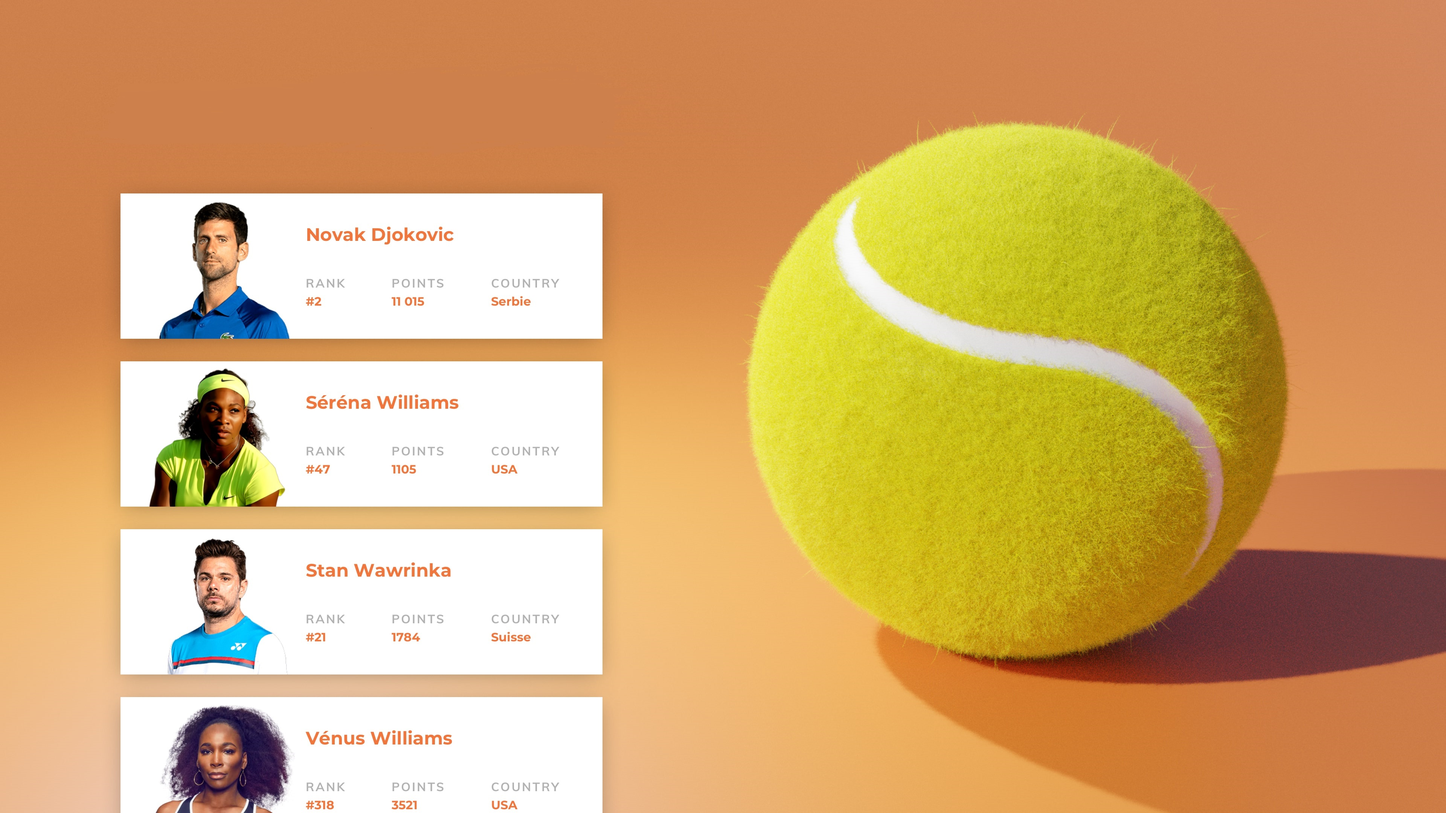
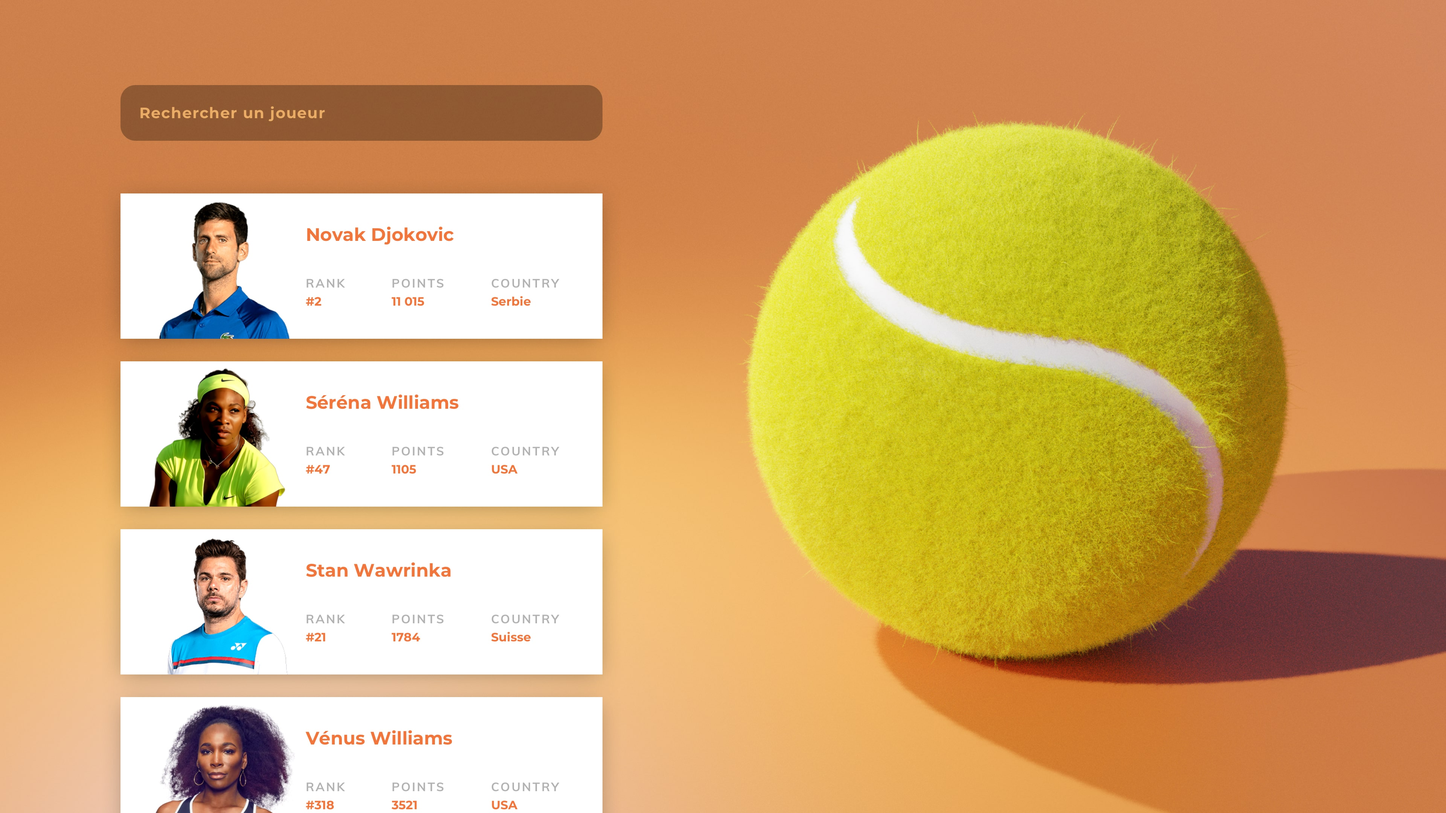
adding search bar

Changed region(s): [[0.0625, 0.0931, 0.4375, 0.1861]]

diff --git a/src/app/components/player-detail/player-detail.component.html b/src/app/components/player-detail/player-detail.component.html
@@ -71,15 +71,16 @@
             <mat-list-item class="detail-item offset-xl-2 col-xl-3
                                               offset-lg-4 col-lg-2
                                               offset-md-1 col-md-3
-                                              col-4">RANK</mat-list-item>
+                                              col-4">RANK
+            </mat-list-item>
             <mat-list-item class="detail-item col-lg-2 col-md-3 col-4">POINTS</mat-list-item>
             <mat-list-item class="detail-item col-lg-2 col-md-3 col-4">COUNTRY</mat-list-item>
           </div>
           <div class="row">
-            <mat-list-item class="detail-value  offset-xl-2 col-xl-3
-                                                offset-lg-4 col-lg-2
-                                              offset-md-1 col-md-3
-                                              col-4">{{player.data.rank}}</mat-list-item>
+            <mat-list-item class="detail-value offset-xl-2 col-xl-3
+                                               offset-lg-4 col-lg-2
+                                               offset-md-1 col-md-3
+                                               col-4">{{player.data.rank}}</mat-list-item>
             <mat-list-item class="detail-value col-lg-2 col-md-3 col-4">{{player.data.points}}</mat-list-item>
             <mat-list-item class="detail-value col-lg-2 col-md-3 col-4">{{player.country.name}}</mat-list-item>
           </div>
@@ -87,7 +88,8 @@
             <mat-list-item class="detail-item offset-xl-2 col-xl-3
                                               offset-lg-4 col-lg-2
                                               offset-md-1 col-md-5
-                                              col-6">BIRTHDAY</mat-list-item>
+                                              col-6">BIRTHDAY
+            </mat-list-item>
             <mat-list-item class="detail-item col-lg-2 col-md-3 offset-md-1 col-6">AGE</mat-list-item>
           </div>
           <div class="row">
@@ -101,7 +103,8 @@
             <mat-list-item class="detail-item offset-xl-2 col-xl-3
                                               offset-lg-4 col-lg2
                                               offset-md-1 col-md-3
-                                              col-4">WEIGHT</mat-list-item>
+                                              col-4">WEIGHT
+            </mat-list-item>
             <mat-list-item class="detail-item col-lg-2 col-md-3 col-4">HEIGHT</mat-list-item>
             <mat-list-item class="detail-item col-lg-2 col-md-3 col-4">BMI</mat-list-item>
           </div>
@@ -109,9 +112,10 @@
             <mat-list-item class="detail-value offset-xl-2 col-xl-3
                                                 offset-lg-4 col-lg-2
                                               offset-md-1 col-md-3
-                                              col-4">{{player.data.weight}}</mat-list-item>
-            <mat-list-item class="detail-value col-md-3 col-4">{{player.data.height}}</mat-list-item>
-            <mat-list-item class="detail-value col-md-3 col-4">{{player.data.bmi}}</mat-list-item>
+                                              col-4">{{player.data.weight / 1000}} kg
+            </mat-list-item>
+            <mat-list-item class="detail-value col-lg-2 col-md-3 col-4">{{player.data.height}}</mat-list-item>
+            <mat-list-item class="detail-value col-lg-2 col-md-3 col-4">{{player.data.bmi}}</mat-list-item>
           </div>
         </div>
 

diff --git a/src/app/components/search-player/search-player.component.ts b/src/app/components/search-player/search-player.component.ts
@@ -1,0 +1,51 @@
+import {Component, OnInit} from '@angular/core';
+import {Player} from "../../models/Player";
+import {PlayerService} from "../../service/player.service";
+import {Router} from "@angular/router";
+import {Observable} from "rxjs";
+import {FormBuilder, FormGroup} from "@angular/forms";
+
+@Component({
+  selector: 'app-search-player',
+  templateUrl: './search-player.component.html',
+  styleUrls: ['./search-player.component.scss']
+})
+
+export class SearchPlayerComponent implements OnInit {
+
+  players$!: Observable<Player[]>;
+  searchForm!: FormGroup;
+  inputName$!: Observable<string>;
+
+  constructor(private playerService: PlayerService,
+              private formBuilder: FormBuilder,
+              private router: Router) {
+  }
+
+  ngOnInit() {
+    this.players$ = this.playerService.getAllPLayers();
+
+    this.searchForm = this.formBuilder.group({
+      input: [null]
+    })
+    this.inputName$ = this.searchForm.valueChanges;
+
+    this.searchForm.valueChanges.subscribe((value) => {
+        this.onInputValueChange(value);
+      }
+    );
+  }
+
+  private onInputValueChange(value: any) {
+    const split: string [] = value.input.split(' ');
+    const firstname = split[0]
+    const lastname: string = split[1];
+    this.players$.subscribe(
+      (players) => {
+        const player = players.filter(player => player.lastname === lastname && player.firstname == firstname)[0];
+        const id = player.id;
+        this.router.navigateByUrl(`playerdetails/${id}`).then();
+      }
+    );
+  }
+}

diff --git a/src/app/app.module.ts b/src/app/app.module.ts
@@ -13,6 +13,11 @@ import {MatTableModule} from "@angular/material/table";
 import {MatGridListModule} from "@angular/material/grid-list";
 import {MatListModule} from "@angular/material/list";
 import { StatisticsComponent } from './components/statistics/statistics.component';
+import {MatAutocompleteModule} from "@angular/material/autocomplete";
+import { SearchPlayerComponent } from './components/search-player/search-player.component';
+import {ReactiveFormsModule} from "@angular/forms";
+import {MatFormFieldModule} from "@angular/material/form-field";
+import {MatInputModule} from "@angular/material/input";
 
 @NgModule({
   declarations: [
@@ -20,7 +25,8 @@ import { StatisticsComponent } from './components/statistics/statistics.componen
     PlayerComponent,
     Home,
     PlayerDetailComponent,
-    StatisticsComponent
+    StatisticsComponent,
+    SearchPlayerComponent
   ],
   imports: [
     BrowserModule,
@@ -30,7 +36,11 @@ import { StatisticsComponent } from './components/statistics/statistics.componen
     MatCardModule,
     MatTableModule,
     MatGridListModule,
-    MatListModule
+    MatListModule,
+    MatAutocompleteModule,
+    ReactiveFormsModule,
+    MatFormFieldModule,
+    MatInputModule
   ],
   providers: [],
   bootstrap: [AppComponent]

diff --git a/src/app/components/search-player/search-player.component.html b/src/app/components/search-player/search-player.component.html
@@ -1,0 +1,22 @@
+<div class="container position-relative">
+
+
+    <form [formGroup]="searchForm">
+      <div>
+        <label for="findPlayerByName"></label>
+        <input id="findPlayerByName"
+               type="text"
+               aria-label="search player"
+               formControlName="input"
+               placeholder="rechercher un joueur"
+               matInput
+               [matAutocomplete]="auto"
+               class="container input col-12"
+        >
+      </div>
+      <mat-autocomplete #auto="matAutocomplete">
+        <mat-option *ngFor="let player of players$ | async" [value]="player.firstname + ' ' + player.lastname">{{player.firstname}} {{player.lastname}}</mat-option>
+      </mat-autocomplete>
+    </form>
+
+</div>

diff --git a/src/app/components/search-player/search-player.component.spec.ts b/src/app/components/search-player/search-player.component.spec.ts
@@ -1,0 +1,23 @@
+import { ComponentFixture, TestBed } from '@angular/core/testing';
+
+import { SearchPlayerComponent } from './search-player.component';
+
+describe('SearchPlayerComponent', () => {
+  let component: SearchPlayerComponent;
+  let fixture: ComponentFixture<SearchPlayerComponent>;
+
+  beforeEach(async () => {
+    await TestBed.configureTestingModule({
+      declarations: [ SearchPlayerComponent ]
+    })
+    .compileComponents();
+
+    fixture = TestBed.createComponent(SearchPlayerComponent);
+    component = fixture.componentInstance;
+    fixture.detectChanges();
+  });
+
+  it('should create', () => {
+    expect(component).toBeTruthy();
+  });
+});

diff --git a/src/app/service/statistics.service.ts b/src/app/service/statistics.service.ts
@@ -12,8 +12,10 @@ export class StatisticsService {
   constructor(private http: HttpClient) {
   }
 
+  baseUrl = 'https://ateliertennissavary.herokuapp.com';
+
   getStatistics(): Observable<Statistics> {
-    return this.http.get<Statistics>('http://localhost:8081/statistics');
+    return this.http.get<Statistics>(this.baseUrl + '/statistics');
   }
 
 

diff --git a/src/app/components/home/home.html b/src/app/components/home/home.html
@@ -1,6 +1,7 @@
 <div class="background container-fluid">
   <div class="row">
     <div class="container col-lg-6 col-12">
+      <app-search-player></app-search-player>
       <app-player *ngFor="let player of players$ | async" [player]="player">
       </app-player>
     </div>

diff --git a/src/app/components/player/player.component.ts b/src/app/components/player/player.component.ts
@@ -18,6 +18,7 @@ export class PlayerComponent {
 
 
   onViewPlayerDetails() {
+    console.log("onViewPlayerDetail is called");
     this.router.navigateByUrl(`playerdetails/${this.player.id}`).then();
   }
 }

diff --git a/src/app/components/player/player.component.scss b/src/app/components/player/player.component.scss
@@ -1,10 +1,10 @@
 .player-card {
   height: 170px;
-  width: auto;
-
+  width: 100%;
   margin: 10px;
   overflow: hidden;
   padding: 0;
+  border-radius: 0;
 }
 
 .card-image {

diff --git a/src/app/components/search-player/search-player.component.scss b/src/app/components/search-player/search-player.component.scss
@@ -1,0 +1,9 @@
+.input[type="text"] {
+  height: auto;
+  width: 100%;
+  background: none;
+
+  border-radius: 10px;
+  margin: 10px;
+}
+

diff --git a/README.md b/README.md
@@ -14,14 +14,10 @@ Run `ng generate component component-name` to generate a new component. You can 
 
 Run `ng build` to build the project. The build artifacts will be stored in the `dist/` directory.
 
-## Running unit tests
+Run `npm run start`.
 
-Run `ng test` to execute the unit tests via [Karma](https://karma-runner.github.io).
+## Deploy
 
-## Running end-to-end tests
+This project uses express to serve files. (Deployment on heroku)
 
-Run `ng e2e` to execute the end-to-end tests via a platform of your choice. To use this command, you need to first add a package that implements end-to-end testing capabilities.
-
-## Further help
-
-To get more help on the Angular CLI use `ng help` or go check out the [Angular CLI Overview and Command Reference](https://angular.io/cli) page.
+Deployed address : `https://atelier-tennis-savary-front.herokuapp.com/`
